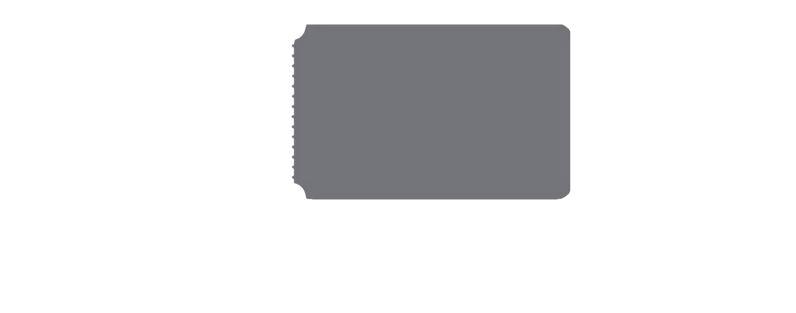
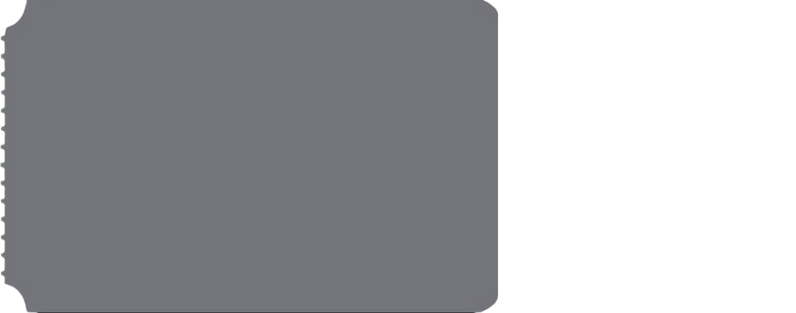
push

diff --git a/src/components/event/detail.jsx b/src/components/event/detail.jsx
@@ -1,7 +1,7 @@
 // src/pages/EventDetails.jsx
 import { useEffect, useState } from 'react';
 import ticket from '../../assets/images/Subtract.png';
-import placeholderImg from '../../assets/images/ok.png';
+import placeholderImg from '../../assets/svgs/ok.png';
 import { useParams } from 'react-router-dom';
 import instance from '../../services/axios';
 
@@ -61,7 +61,7 @@ const EventDetails = () => {
                 }}
             >
                 {/* Phần thông tin event bên trái: fixed width 454px, full height */}
-                <div className="w-[454px] h-full p-8">
+                <div className="w-[448px] h-full p-8">
                     <div className="info">
                         <p
                             id="title"
@@ -140,7 +140,7 @@ const EventDetails = () => {
                     </div>
                 </div>
                 {/* Phần ảnh event bên phải: fixed width 755px, full height */}
-                <div className="relative w-[755px] h-[476px] rounded-lg overflow-hidden">
+                <div className="relative w-[763px] h-[476px] rounded-lg overflow-hidden">
                     {/* Placeholder mask: dùng ảnh này làm khuôn */}
                     <div
                         className="absolute inset-0 bg-no-repeat bg-cover bg-center"
